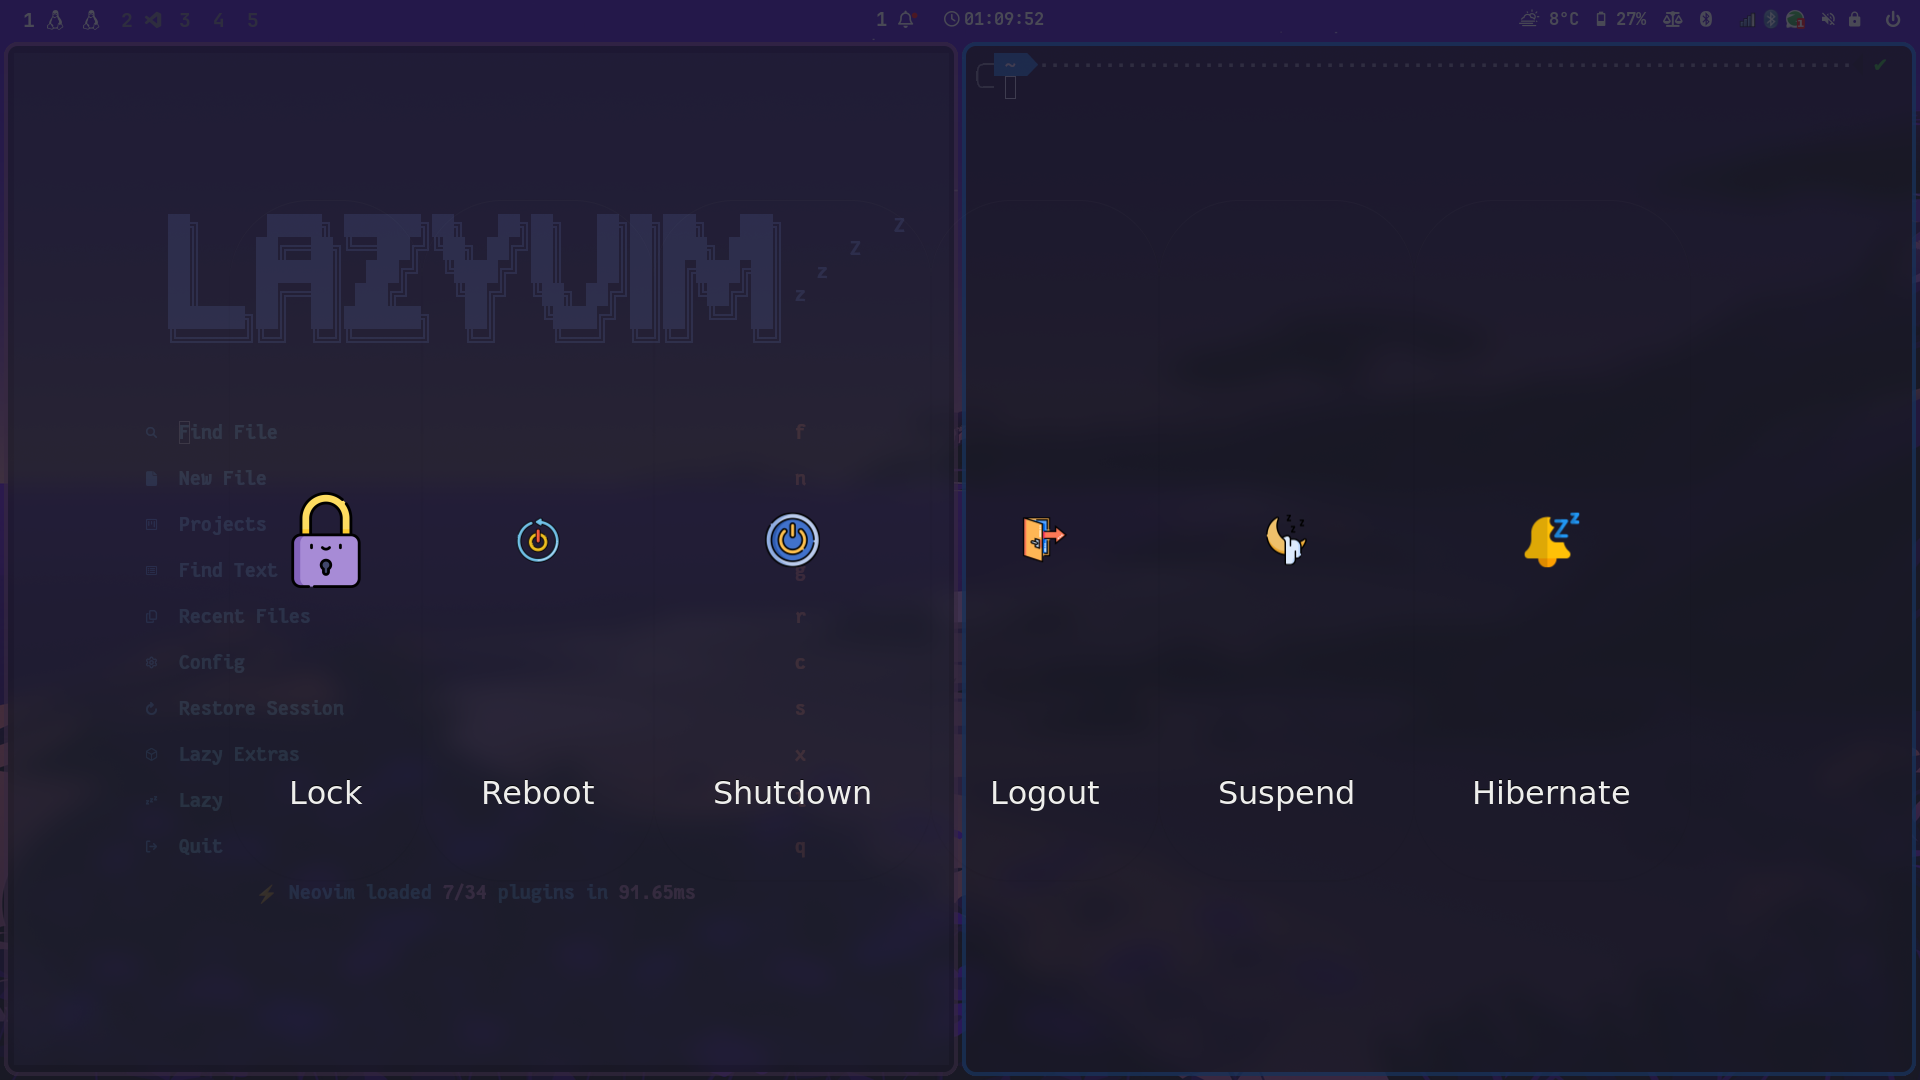
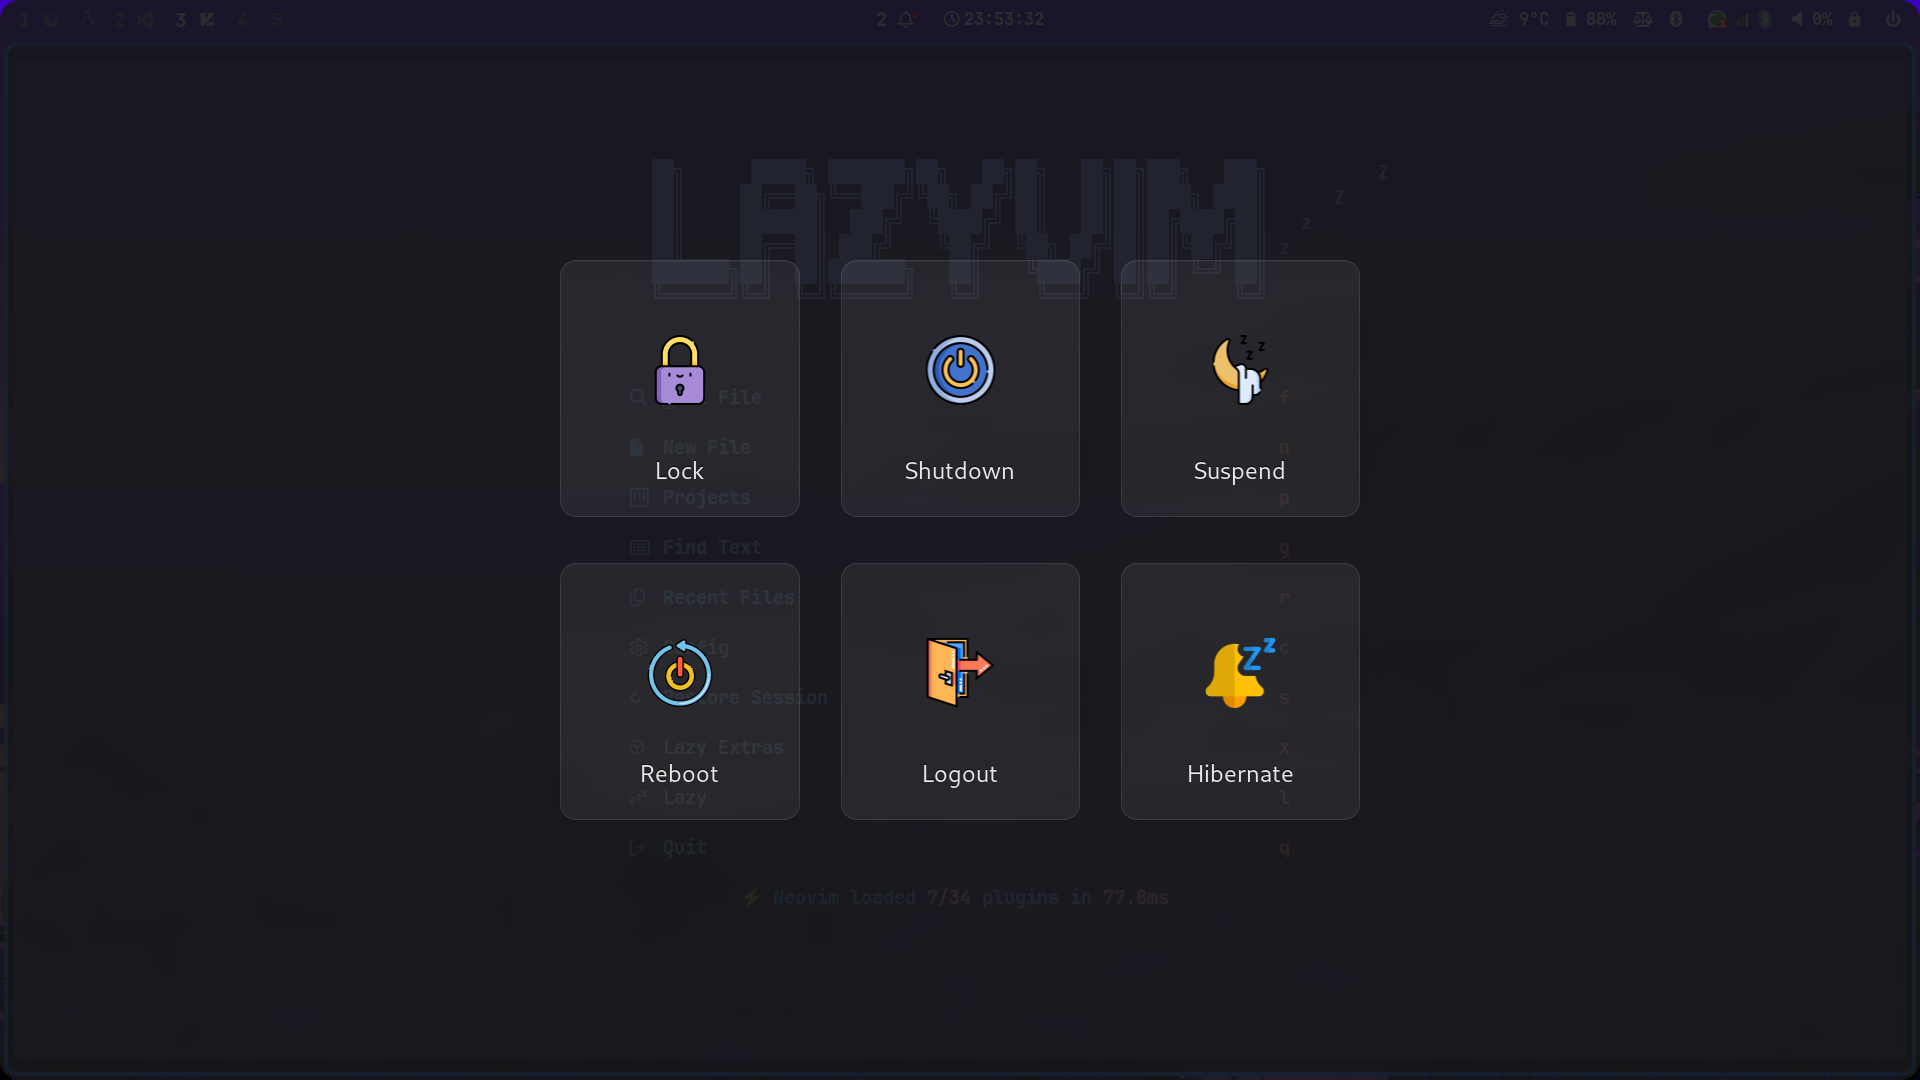
update lock layout

diff --git a/wlogout/.config/wlogout/style.css b/wlogout/.config/wlogout/style.css
@@ -1,88 +1,58 @@
-/* ----------- 💫 https://github.com/JaKooLit 💫 -------- */
-/* wallust-wlogout */
-
-/* Importing wallust colors */
-@import '../../.config/waybar/wallust/colors-waybar.css';
-
 window {
-    font-size: 24pt;
-    color: @foreground; /* text */
-    background-color: rgba(30, 30, 46, 0.8);
+    background-color: rgba(24, 24, 27, 0.9);
+    border-radius: 20px;
+    color: white;
+    font-family: Cantarell, sans-serif;
 }
 
+/* Contenitore principale */
+grid {
+    margin: 40px; /* bordo esterno */
+    /* spacing non valido → lo sostituiamo con margin nei bottoni */
+}
+
+/* Pulsanti */
 button {
     background-repeat: no-repeat;
-    background-position: center;
-    background-size: 20%;
-    background-color: rgba(200, 220, 255, 0);
-    animation: gradient_f 10s ease-in infinite;
-    transition: all 0.3s cubic-bezier(.55, 0.0, .28, 1.682), box-shadow 0.2s ease-in-out, background-color 0.2s ease-in-out;
-    border-radius: 80px;
-	border:0px;
-	outline-style: none;
-}
-
-button:focus {
-    background-size: 50%;
-	border: 0px;
-	outline-style: none;
-
+    background-position: center 40%;
+    background-size: 70px; /* dimensione icona */
+    border-radius: 16px;
+    background-color: rgba(255, 255, 255, 0.06);
+    border: 1px solid rgba(255, 255, 255, 0.1);
+    padding: 20px 10px;
+    min-width: 120px;
+    min-height: 140px;
+    margin: 20px; /* distanza tra i pulsanti */
+    transition: 150ms ease-in-out;
 }
 
 button:hover {
-    background-color: transparent; 
-    color: @color13;
-    background-size: 50%;
-    margin: 30px;
-    border-radius: 80px;
-    outline-style: none;
-	
+    background-color: rgba(255, 255, 255, 0.15);
 }
 
-/* Adjust the size of the icon or content inside the button */
-button span {
-    font-size: 1.2em; /* Increase the font size */
+/* Testo sotto icona */
+button label, button span {
+    margin-top: 80px;
+    font-size: 1.8em;
+    color: rgba(255, 255, 255, 0.9);
 }
 
-
+/* Icone */
 #lock {
     background-image: image(url("./icons/lock.png"));
 }
-#lock:hover {
-    background-image: image(url("./icons/lock-hover.png"));
-}
-
-#logout {
-    background-image: image(url("./icons/logout.png"));
-}
-#logout:hover {
-    background-image: image(url("./icons/logout-hover.png"));
-}
-
-#suspend {
-    background-image: image(url("./icons/sleep.png"));
-}
-#suspend:hover {
-    background-image: image(url("./icons/sleep-hover.png"));
-}
-
-#shutdown {
-    background-image: image(url("./icons/power.png"));
-}
-#shutdown:hover {
-    background-image: image(url("./icons/power-hover.png"));
-}
-
 #reboot {
     background-image: image(url("./icons/restart.png"));
 }
-#reboot:hover {
-    background-image: image(url("./icons/restart-hover.png"));
+#shutdown {
+    background-image: image(url("./icons/power.png"));
 }
-
+#logout {
+    background-image: image(url("./icons/logout.png"));
+}
+#suspend {
+    background-image: image(url("./icons/sleep.png"));
+}
 #hibernate {
     background-image: image(url("./icons/hibernate.png"));
-}
-#hibernate:hover {
-    background-image: image(url("./icons/hibernate-hover.png"));
 }
